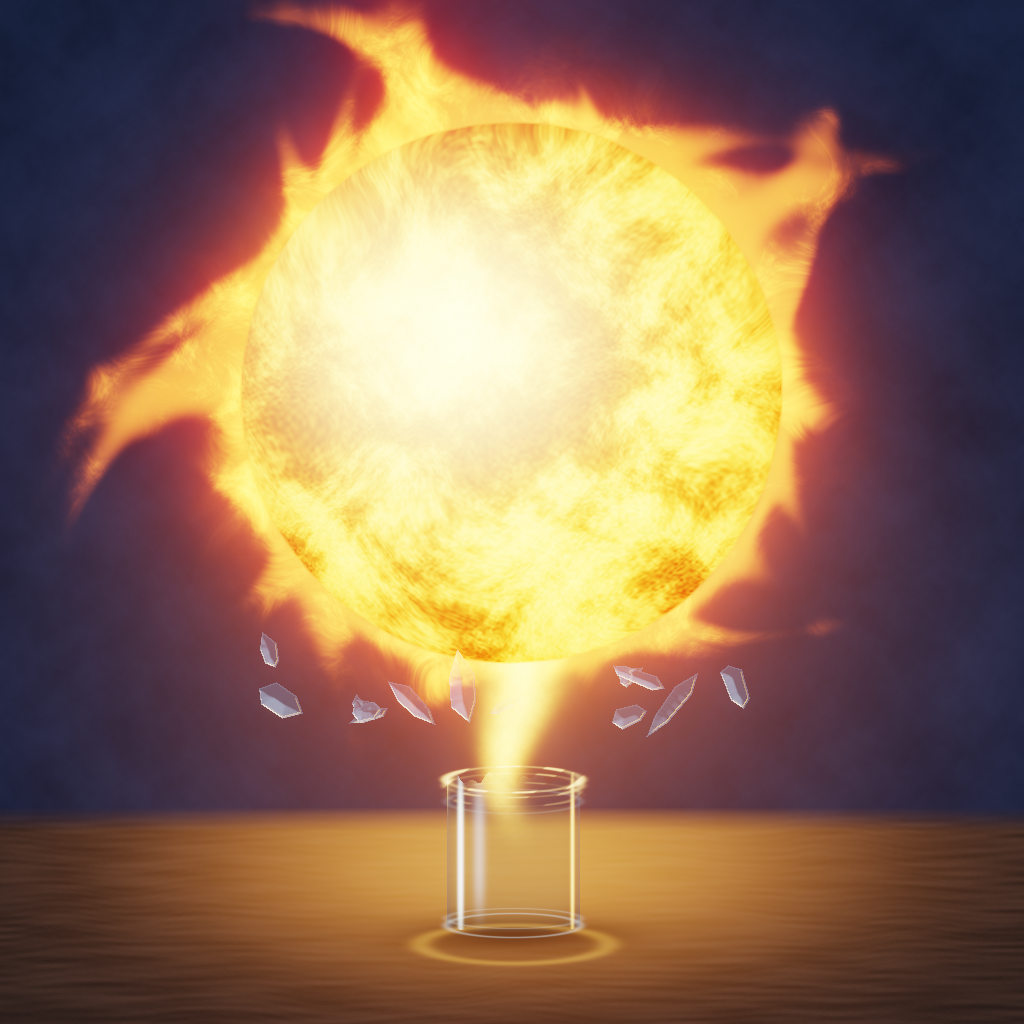
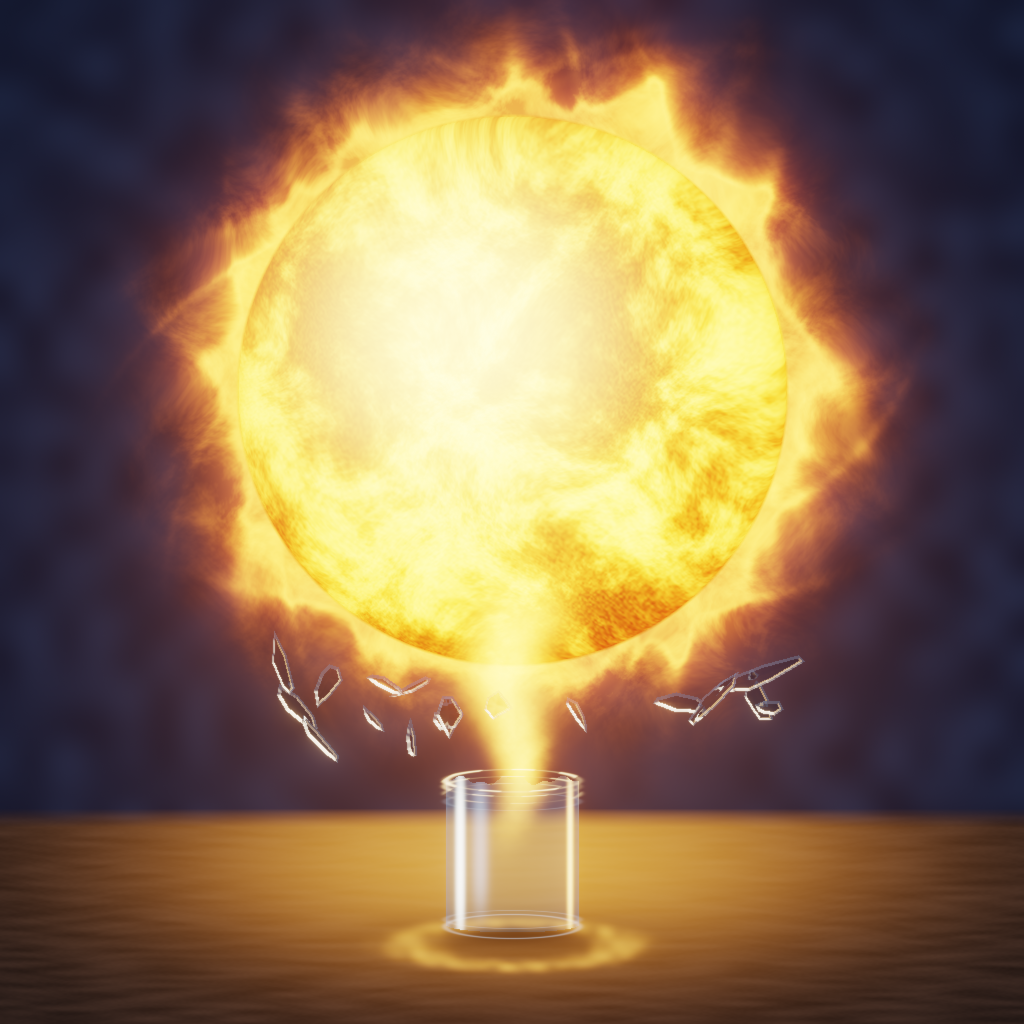
ai-excited-01 v3: photorealistic renderer, full in-session rewrite

Changed region(s): [[0.0312, 0.0, 0.9062, 0.9688], [0.9375, 0.625, 0.9688, 0.6875], [0.0938, 0.0938, 0.125, 0.125]]

diff --git a/main.ts b/main.ts
@@ -7,5 +7,4 @@ const destination = resolve(process.env.MAKEFUN_OUTPUT_DIR || '/output');
 const metadata = await stat(artwork);
 if (metadata.size > 1_048_576) throw new Error('Artwork exceeds the image byte limit');
 await mkdir(destination, { recursive: true });
-// Publish the seeded HDR renderer’s authored PNG without altering any bytes.
 await copyFile(artwork, resolve(destination, 'entry.png'));

diff --git a/draw_image.py b/draw_image.py
@@ -1,153 +1,179 @@
-"""Seeded HDR plasma / refractive glass still life. No external image assets."""
+"""Deterministic scene-linear still-life renderer for a sun breaking from glass."""
 from pathlib import Path
+
 import numpy as np
-from scipy.ndimage import gaussian_filter, map_coordinates, distance_transform_edt
 from PIL import Image, ImageDraw
+from scipy.ndimage import gaussian_filter, map_coordinates, distance_transform_edt
 
-S = 1024
-rng = np.random.default_rng(62017)
-y, x = np.mgrid[:S, :S].astype(np.float64)
+SIZE = 1024
+rng = np.random.default_rng(6172026)
+y, x = np.mgrid[:SIZE, :SIZE].astype(np.float64)
 
-def noise(scale, u=x, v=y):
-    grid = rng.random((int(S / scale)+5, int(S / scale)+5))
-    return map_coordinates(grid, [v/scale+1, u/scale+1], order=3, mode='reflect')
 
-def fbm(u, v):
-    return sum(w*noise(s,u,v) for s,w in [(100,.38),(43,.26),(18,.18),(7,.11),(2.5,.07)])
+def field(scale, u=x, v=y):
+    grid = rng.random((int(SIZE / scale) + 5, int(SIZE / scale) + 5))
+    return map_coordinates(grid, [v / scale + 1, u / scale + 1], order=3, mode='reflect')
 
-def sample(a, u, v):
-    return np.stack([map_coordinates(a[:,:,c], [v,u], order=1, mode='nearest') for c in range(3)],-1)
 
-def add(field, color):
-    global hdr
-    hdr += field[:,:,None]*np.array(color)
+def turbulence(u, v):
+    return sum(weight * field(scale, u, v) for scale, weight in
+               ((128, .32), (58, .25), (26, .19), (11, .13), (4, .075), (1.7, .035)))
 
-# Defocused indigo studio, distant wall, and tactile walnut tabletop.
-wall = fbm(x,y)
-hdr = np.zeros((S,S,3)) + [0.009, .017, .045]
-hdr += wall[:,:,None]*np.array([.012,.018,.035])
-horizon = 807
-floor = np.clip((y-horizon)/24,0,1)
-wood = noise(18, x*.36 + 12*np.sin(y/150), y*5) + .16*noise(3,x,y*3)
-wood += .13*np.sin(y*.9+noise(65)*14)+.08*noise(1.4)
-lightpool = np.exp(-((x-518)/260)**2-((y-859)/95)**2)
-desk = np.stack([.035+.025*wood,.022+.015*wood,.019+.012*wood],-1)
-desk += lightpool[:,:,None]*[.58,.24,.055]
-hdr = hdr*(1-floor[:,:,None])+desk*floor[:,:,None]
-# Soft contact shadow under the jar.
-hdr *= (1-.77*np.exp(-((x-514)/114)**2-((y-934)/18)**2))[:,:,None]
-add(np.exp(-((x-514)/320)**2-((y-566)/350)**2),[.20,.058,.009])
 
-# Photosphere: spherical coordinates, domain-warped convection, emissive granules.
-cx, cy, radius = 511, 392, 271
-dx,dy=(x-cx)/radius,(y-cy)/radius
-r=np.hypot(dx,dy)
-theta=np.arctan2(dy,dx)
-z=np.sqrt(np.clip(1-r*r,0,1))
-u=x+42*(noise(75)-.5)+24*z
-v=y+44*(noise(67)-.5)-32*z
-conv=fbm(u,v)
-fine=noise(3.1,u,v)
-# Many irregular flame fingers, with turbulent soft volume boundaries.
+def sample(image, u, v):
+    return np.stack([map_coordinates(image[:, :, c], [v, u], order=1, mode='nearest')
+                     for c in range(3)], axis=-1)
+
+
+hdr = np.zeros((SIZE, SIZE, 3), dtype=np.float64)
+# Indigo studio wall fades into a walnut surface with a broad, warm light pool.
+wallgrain = field(33) * .012
+hdr[:] = [0.009, .014, .038]
+hdr += wallgrain[:, :, None] * [0.6, 1.0, 1.8]
+horizon = 808
+floor = np.clip((y - horizon) / 19, 0, 1)
+woodgrain = field(19, x * .42 + 12 * np.sin(y / 135), y * 4.3)
+woodgrain += .18 * field(3.4, x, y * 2.8) + .08 * np.sin(y * .9 + field(66) * 14)
+desk = np.stack([.026 + .022 * woodgrain, .016 + .014 * woodgrain,
+                 .014 + .011 * woodgrain], axis=-1)
+pool = np.exp(-((x - 514) / 282) ** 2 - ((y - 856) / 95) ** 2)
+desk += pool[:, :, None] * [0.63, .27, .052]
+hdr = hdr * (1 - floor[:, :, None]) + desk * floor[:, :, None]
+hdr *= (1 - .68 * np.exp(-((x - 513) / 110) ** 2 - ((y - 934) / 18) ** 2))[:, :, None]
+
+# A turbulent, spherical photosphere: mottled convection below a soft plasma limb.
+cx, cy, radius = 512, 390, 274
+dx, dy = (x - cx) / radius, (y - cy) / radius
+r = np.hypot(dx, dy)
+theta = np.arctan2(dy, dx)
+depth = np.sqrt(np.clip(1 - r * r, 0, 1))
+warp_u = x + 39 * (field(86) - .5) + 25 * depth
+warp_v = y + 42 * (field(72) - .5) - 29 * depth
+convection = turbulence(warp_u, warp_v)
+micro = field(2.4, warp_u, warp_v)
+granulation = np.clip((convection - .31) * 2.25, 0, 1)
+filament = np.clip((convection - .43) * 5.5, 0, 1)
+cellular = .38 + 2.25 * granulation + 1.12 * filament + .48 * micro
+cellular *= .45 + .55 * depth ** .55
+core = np.exp(-((dx + .19) / .52) ** 2 - ((dy + .21) / .51) ** 2)
+
+# Uneven arcs, fine prominences and turbulent tongues create a volumetric corona.
 angular = np.zeros_like(r)
-for k in range(58):
-    angle=rng.uniform(-np.pi,np.pi)
-    delta=np.arctan2(np.sin(theta-angle),np.cos(theta-angle))
-    bend=.85*(r-1)*np.sin(angle*5)
-    angular += rng.uniform(.025,.14)*np.exp(-((delta-bend)/rng.uniform(.035,.085))**2)
-warp=fbm(x+45*noise(43),y+45*noise(39))
-edge=1+angular+.055*(warp-.5)
-corona=np.exp(-np.maximum(r-1,0)*14)*(r>.98)
-flames=np.exp(-((r-1.015)/(edge-.95))**2*2)*(r>.98)
-filaments=np.clip((warp-.36)*2.3,0,1)**2
-emission=(corona*.32+flames*2.8)*( .25+filaments)
-add(emission,[3.7,.77,.055])
-# Volumetric column rises out of the broken mouth and feeds the sphere.
-columnwidth=17+np.clip((780-y),0,180)*.20
-column=np.exp(-((x-512-10*np.sin(y/33))/columnwidth)**2*2)*np.exp(-((y-700)/102)**4)
-add(column*(.5+2*fbm(x,y)),[3.4,1.55,.25])
-mask=np.clip((1.003+.017*(warp-.5)-r)*90,0,1)
-granules=np.clip((conv-.25)*1.7,0,1)
-lanes=np.clip((conv-.38)*5,0,1)
-intensity=(.35+2.4*granules+1.3*lanes+.65*fine)*(.40+.60*z**.45)
-core=np.exp(-((dx+.22)/.55)**2-((dy+.20)/.50)**2)
-solar=np.stack([intensity*1.35+core*2.2,intensity**1.6*.31+core*1.5,intensity**2*.022+core*.68],-1)
-hdr=hdr*(1-mask[:,:,None])+solar*mask[:,:,None]
+for _ in range(96):
+    angle = rng.uniform(-np.pi, np.pi)
+    delta = np.arctan2(np.sin(theta - angle), np.cos(theta - angle))
+    width = rng.uniform(.025, .082)
+    bend = (r - 1) * rng.uniform(-1.3, 1.3) + .011 * np.sin(theta * rng.integers(3, 9))
+    angular += rng.uniform(.008, .055) * np.exp(-((delta - bend) / width) ** 2)
+edge_noise = turbulence(x + 38 * field(52), y + 35 * field(46))
+limb = 1 + angular + .075 * (edge_noise - .5)
+outside = np.maximum(r - limb, 0)
+corona = np.exp(-outside * 15) * (r > .96)
+tongues = np.exp(-((r - limb - .018) / (.025 + .008 * np.clip(edge_noise, 0, 1))) ** 2)
+plasma = corona * (.25 + 1.05 * np.clip((edge_noise - .30) * 2, 0, 1)) + tongues * .34
+hdr += plasma[:, :, None] * [3.8, 1.13, .12]
+disc = np.clip((1.01 - r) * 85, 0, 1)
+sun = np.stack([cellular * 1.28 + core * 2.45,
+                cellular ** 1.58 * .34 + core * 1.55,
+                cellular ** 2 * .022 + core * .56], axis=-1)
+hdr = hdr * (1 - disc[:, :, None]) + sun * disc[:, :, None]
 
-# Tiny broken cylindrical preserving jar: normal-map refraction and Fresnel reflection.
-background=hdr.copy()
-center=513; top=778; bottom=932; half=67
-q=(x-center)/half
-topedge=top+4*np.sin(x*.15)+3*np.sin(x*.37)
-body=(np.abs(q)<1)&(y>topedge)&(y<bottom-7+7*np.sqrt(np.clip(1-q*q,0,1)))
-nx=np.clip(q,-.999,.999)
-nz=np.sqrt(np.clip(1-nx*nx,.001,1))
-# Air/glass index 1.52: stronger offsets through curved outer walls.
-refx=x-18*nx/(nz+.22)
-refy=y+3*np.sin((y-top)/150*np.pi)+2*nx*nx
-refracted=sample(background,refx,refy)
-fresnel=.04+.96*(1-nz)**5
-reflection=np.stack([.06+.3*nz,.12+.20*nz,.22+.16*nz],-1)
-glass=refracted*np.array([.82,.91,.94])+fresnel[:,:,None]*reflection
-    # Glass thickness attenuates light most strongly at grazing angles.
-glass *= (1-.38*np.abs(q)**8)[:,:,None]
-# Interior warm reflections and narrow softbox / sun streaks.
-left=np.exp(-((q+.79)/.035)**2)*np.exp(-((y-854)/71)**4)
-right=np.exp(-((q-.88)/.023)**2)*np.exp(-((y-855)/72)**4)
-back=np.exp(-((q+.51)/.08)**2)*np.exp(-((y-847)/60)**4)
-glass+=(left[:,:,None]*[1.5,1.65,1.55]+right[:,:,None]*[2.4,1.22,.35]+back[:,:,None]*[.22,.28,.33])
-hdr=np.where(body[:,:,None],glass,hdr)
-# Thick elliptical base and fractured bright lip with reflected underside.
-for ey, ry, strength in [(925,12,.27),(918,10,.14),(779,13,1.0),(785,12,.32),(794,12,.12),(801,12,.09)]:
-    er=np.sqrt(((x-center)/half)**2+((y-ey)/ry)**2)
-    ring=np.exp(-((er-1)/.065)**2)*strength
-    if ey<800:
-        ring *= .22+.78*np.clip(np.sin(x*.13+y*.17)*3,0,1)
-    add(ring,[1.8,1.04,.36] if ey<800 else [.55,.64,.65])
-# Bright caustic on the table, optically stretched behind the base.
-caustic=np.exp(-((np.sqrt(((x-514)/94)**2+((y-944)/19)**2)-1)/.12)**2)
-add(caustic*.14,[1.7,.85,.20])
+# A narrow, turbulent plume connects the burst to the broken bottle mouth.
+shaft_noise = turbulence(x * .65, y * 1.35)
+shaft_width = 13 + np.clip(790 - y, 0, 170) * .18 + 7 * shaft_noise
+shaft_center = 512 + 8 * np.sin(y / 29) + 7 * (shaft_noise - .5)
+shaft = np.exp(-((x - shaft_center) / shaft_width) ** 2 * 1.7) * np.exp(-((y - 700) / 112) ** 4)
+hdr += shaft[:, :, None] * (.55 + 1.7 * turbulence(x, y))[:, :, None] * [2.9, 1.25, .19]
 
-# Irregular curved glass fragments, each refracting its own background region.
-for i in range(24):
-    a=rng.uniform(0,2*np.pi)
-    reach=rng.uniform(100,300)
-    px=512+np.cos(a)*reach
-    py=742-abs(np.sin(a))*rng.uniform(35,190)
-    if 300<px<735 and py<675: continue
-    length=rng.uniform(12,38); width=rng.uniform(5,16)
-    angle=rng.uniform(-3,3)
-    pts=[]
-    for k in range(6):
-        t=2*np.pi*k/6
-        lx=np.cos(t)*length*rng.uniform(.7,1.2)
-        ly=np.sin(t)*width*rng.uniform(.65,1.2)
-        pts.append((px+lx*np.cos(angle)-ly*np.sin(angle),py+lx*np.sin(angle)+ly*np.cos(angle)))
-    im=Image.new('L',(S,S)); ImageDraw.Draw(im).polygon(pts,fill=255)
-    m=np.array(im)>0
-    dist=distance_transform_edt(m)
-    gy,gx=np.gradient(gaussian_filter(dist,1))
-    refr=sample(hdr,x+gx*8+np.cos(angle)*5,y+gy*8+np.sin(angle)*4)
-    reflected=(.07+.2*np.maximum(0,gx*.7-gy))[:,:,None]*np.array([.5,.72,1.0])
-    hdr=np.where(m[:,:,None],refr*.86+reflected,hdr)
-    edge=m&(dist<1.6)
-    spec=np.clip(gx*.5-gy*.8,0,1)**5
-    hdr+=edge[:,:,None]*(spec[:,:,None]*[4,2.8,1.3]+[.025,.035,.05])
-    # Inner bevel catches a separate warm reflection, giving the shard thickness.
-    bevel=m&(dist>1.6)&(dist<3.0)
-    hdr+=bevel[:,:,None]*np.maximum(0,-gx-gy)[:,:,None]*[.34,.17,.04]
+# Defocused reflected light and a subtle veil around the photosphere.
+hdr += np.exp(-((x - cx) / 335) ** 2 - ((y - 520) / 390) ** 2)[:, :, None] * [.13, .045, .008]
 
-# Sensor response: multiscale lens bloom in scene-linear light, then filmic exposure.
-bright=np.maximum(hdr-.9,0)
-for sigma, weight in [(2,.15),(9,.20),(29,.20),(75,.12)]:
-    hdr+=gaussian_filter(bright,(sigma,sigma,0))*weight
-vignette=np.clip(1-.35*((x-512)**2+(y-480)**2)/650000,.55,1)
-hdr*=vignette[:,:,None]
-# ACES-like shoulder preserves white-hot emission and rich photographic shadows.
-a,b,c,d,e=2.51,.03,2.43,.59,.14
-rgb=np.clip((hdr*(a*hdr+b))/(hdr*(c*hdr+d)+e),0,1)**(1/2.2)
-rgb+=rng.normal(0,.00065,(S,S,1))
-img=Image.fromarray(np.uint8(np.clip(rgb,0,1)*255))
-# RGB output preserves smooth optical gradients without palette banding.
-img.save(Path(__file__).with_name('entry.png'),optimize=True)
-img.convert('RGB').resize((300,300),Image.Resampling.LANCZOS).save(Path(__file__).with_name('preview.png'))
+# Refractive glass bottle; a warped normal field bends the sampled background.
+background = hdr.copy()
+center, top, bottom, half = 512, 780, 932, 67
+q = (x - center) / half
+top_edge = top + 3.2 * np.sin(x * .12) + 1.8 * np.sin(x * .31)
+body = (np.abs(q) < 1) & (y > top_edge) & (y < bottom - 8 + 8 * np.sqrt(np.clip(1 - q*q, 0, 1)))
+edge_slope = np.clip(q, -.985, .985)
+normal_x = edge_slope
+normal_y = .035 * np.sin((y - top) / 16) + .018 * np.sin(x / 8)
+normal_z = np.sqrt(np.clip(1 - normal_x**2 - normal_y**2, .025, 1))
+offset_x = 19 * normal_x / (normal_z + .27) + 4 * normal_y
+offset_y = 4.5 * normal_y / (normal_z + .25) + 2.2 * normal_x**2
+refracted = sample(background, x - offset_x, y + offset_y)
+fresnel = .035 + .965 * (1 - normal_z) ** 5
+reflection = np.stack([.055 + .25 * normal_z, .095 + .24 * normal_z,
+                       .17 + .29 * normal_z], axis=-1)
+glass = refracted * [.78, .87, .93] + fresnel[:, :, None] * reflection
+glass += np.stack([.015 + .028 * (1-normal_z), .025 + .05 * (1-normal_z),
+                   .035 + .075 * (1-normal_z)], axis=-1)
+glass *= (1 - .26 * np.abs(q)**9)[:, :, None]
+softbox = np.exp(-((q + .78) / .055)**2) * np.exp(-((y - 852) / 77)**4)
+warm_edge = np.exp(-((q - .86) / .038)**2) * np.exp(-((y - 850) / 77)**4)
+inner = np.exp(-((q + .48) / .11)**2) * np.exp(-((y - 844) / 63)**4)
+glass += (softbox[:, :, None] * [1.8, 1.9, 1.8] +
+          warm_edge[:, :, None] * [2.55, 1.42, .53] +
+          inner[:, :, None] * [.22, .30, .39])
+hdr = np.where(body[:, :, None], glass, hdr)
+
+# Thick bottom heel, shattered rim and refracted caustics.
+for ey, ry, strength in ((926, 12, .28), (919, 9, .14), (780, 11, .85),
+                         (786, 10, .40), (793, 10, .17), (801, 9, .10)):
+    ellipse = np.sqrt(((x - center) / half)**2 + ((y - ey) / ry)**2)
+    ring = np.exp(-((ellipse - 1) / .052)**2) * strength
+    if ey < 800:
+        ring *= .18 + .82 * np.clip(np.sin(x * .12 + y * .19) * 2.8, 0, 1)
+    hdr += ring[:, :, None] * ([1.8, 1.22, .62] if ey < 800 else [ .48, .58, .66 ])
+caustic_r = np.sqrt(((x - 514) / 106)**2 + ((y - 944) / 22)**2)
+caustic = np.exp(-((caustic_r - 1) / .24)**2) * (.42 + .58 * field(11))
+hdr += caustic[:, :, None] * [.55, .25, .055]
+
+# Each splinter has a distinct shard mask, beveled thickness, normal and reflected edge.
+for _ in range(33):
+    angle = rng.uniform(0, 2 * np.pi)
+    reach = rng.uniform(100, 305)
+    px = 512 + np.cos(angle) * reach
+    py = 747 - abs(np.sin(angle)) * rng.uniform(30, 200)
+    if 302 < px < 724 and py < 675:
+        continue
+    length, width = rng.uniform(13, 42), rng.uniform(4, 14)
+    rotation = rng.uniform(-3.1, 3.1)
+    points = []
+    for k in range(7):
+        a = 2 * np.pi * k / 7
+        lx = np.cos(a) * length * rng.uniform(.66, 1.24)
+        ly = np.sin(a) * width * rng.uniform(.65, 1.3)
+        points.append((px + lx*np.cos(rotation) - ly*np.sin(rotation),
+                       py + lx*np.sin(rotation) + ly*np.cos(rotation)))
+    mask_image = Image.new('L', (SIZE, SIZE))
+    ImageDraw.Draw(mask_image).polygon(points, fill=255)
+    mask = np.asarray(mask_image) > 0
+    if not mask.any():
+        continue
+    distance = distance_transform_edt(mask)
+    gy, gx = np.gradient(gaussian_filter(distance, .72))
+    thickness = rng.uniform(.72, .94)
+    refr = sample(hdr, x + gx * rng.uniform(5, 11) + np.cos(rotation) * 4,
+                  y + gy * rng.uniform(5, 11) + np.sin(rotation) * 4)
+    refr_color = np.array([.82, .91, .98]) * thickness
+    hdr = np.where(mask[:, :, None], refr * refr_color, hdr)
+    bevel = mask & (distance > .8) & (distance < rng.uniform(2.6, 4.2))
+    glint = np.clip(gx * .48 - gy * .72 + .12, 0, 1) ** 4
+    hdr += bevel[:, :, None] * (glint[:, :, None] * [2.65, 2.15, 1.55] + [.045, .055, .072])
+    inner_bevel = mask & (distance > 2.0) & (distance < 4.0)
+    hdr += inner_bevel[:, :, None] * np.clip(-gx - .4*gy, 0, 1)[:, :, None] * [.40, .25, .11]
+
+# Scene-linear optical bloom rolls off gently into the room; DOF and grain stay restrained.
+bright = np.maximum(hdr - .72, 0)
+for sigma, amount in ((2.2, .13), (8, .18), (24, .16), (62, .09)):
+    hdr += gaussian_filter(bright, (sigma, sigma, 0)) * amount
+hdr = gaussian_filter(hdr, (0.42, 0.42, 0))
+vignette = np.clip(1 - .30 * ((x - 512)**2 + (y - 476)**2) / 690000, .59, 1)
+hdr *= vignette[:, :, None]
+# Filmic shoulder retains the hot white-gold core and colored shadows.
+a, b, c, d, e = 2.51, .03, 2.43, .59, .14
+rgb = np.clip((hdr * (a*hdr + b)) / (hdr * (c*hdr + d) + e), 0, 1) ** (1/2.2)
+rgb += rng.normal(0, .00055, (SIZE, SIZE, 1))
+image = Image.fromarray(np.uint8(np.clip(rgb, 0, 1) * 255), mode='RGB')
+image.save(Path(__file__).with_name('entry.png'), optimize=True)
+image.resize((300, 300), Image.Resampling.LANCZOS).save(Path(__file__).with_name('preview.png'))

diff --git a/README.md b/README.md
@@ -1,15 +1,15 @@
-# A small idea hatches a star — v2
+# A Star in the Making
 
-A huge newborn sun erupts from a tiny broken glass jar on a walnut desk, lighting an indigo room.
+A newborn sun erupts from a tiny broken glass jar on a walnut desk, casting warm light into an indigo studio.
 
-Run with Node 22, without dependencies or network access:
+Run the entrypoint with Node 22:
 
 ```sh
 MAKEFUN_OUTPUT_DIR=out node main.ts
 ```
 
-The entrypoint copies the authored 1024×1024 `entry.png` byte for byte. The default destination is `/output/entry.png`.
+It copies the authored 1024 x 1024 `entry.png` byte for byte. The default output path is `/output/entry.png`.
 
-Regenerate the artwork with `python3 draw_image.py` (NumPy, SciPy and Pillow). The fixed-seed renderer constructs the scene without external images: domain-warped multiscale plasma, a white-gold core, turbulent corona, scene-linear multiscale bloom, cylindrical glass refraction, Fresnel reflection, refractive irregular shards, table caustics, soft contact shadows, film grain and vignette. RGB PNG output preserves smooth light gradients. It also writes a local 300px `preview.png` for visual inspection.
+Regenerate the deterministic artwork with `python3 draw_image.py` using NumPy, SciPy and Pillow. The renderer builds its scene from seeded multiscale turbulence, volumetric plasma, refractive glass, individual beveled shards, caustics, soft shadows, lens bloom, film grain and vignette. It also creates a local 300 px preview for inspection.
 
-The renderer uses physically inspired approximations, rather than a full light-transport simulation. The artwork and source are licensed under MIT; see `LICENSE`.
+The renderer uses physically inspired optical approximations rather than a full light-transport simulation. Artwork and source are available under the MIT license in `LICENSE`.
